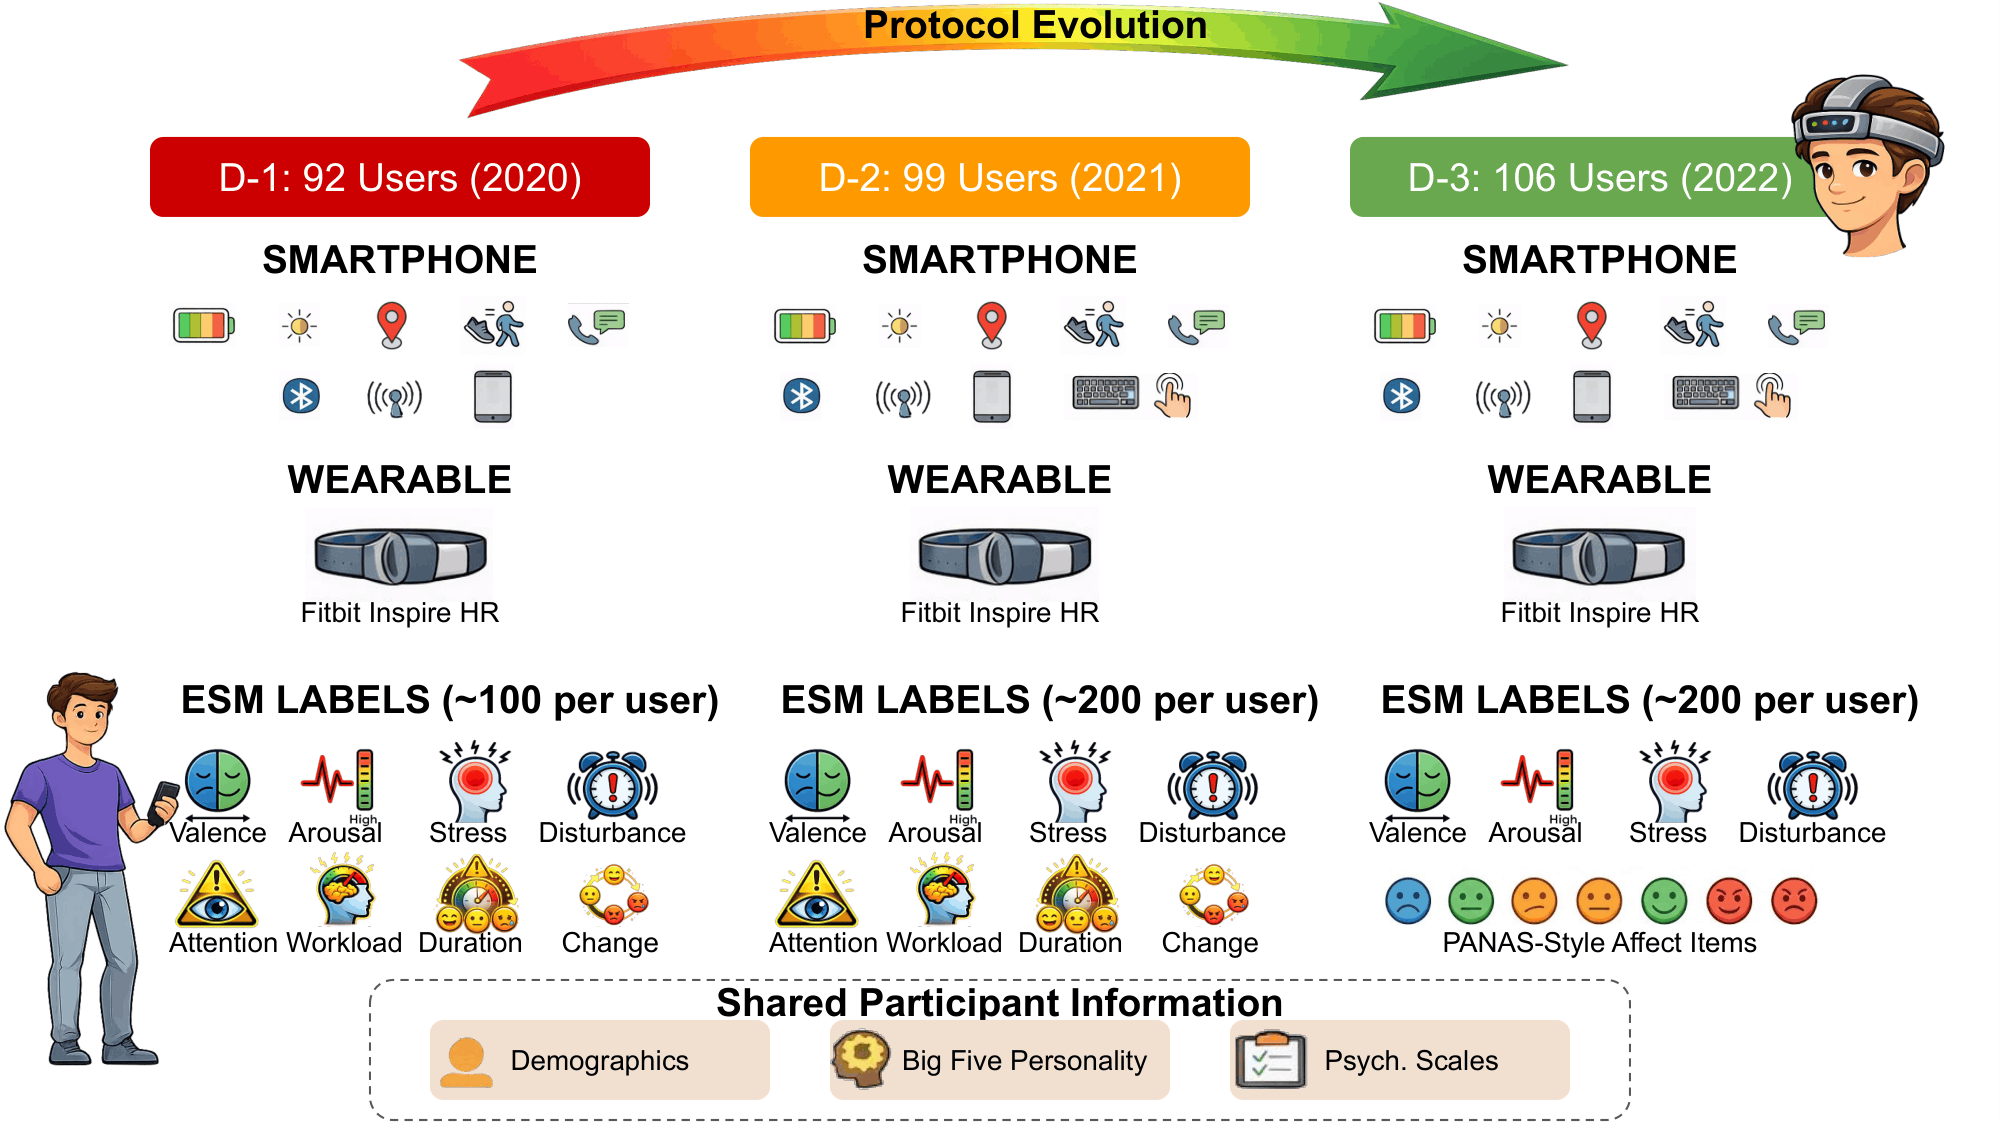
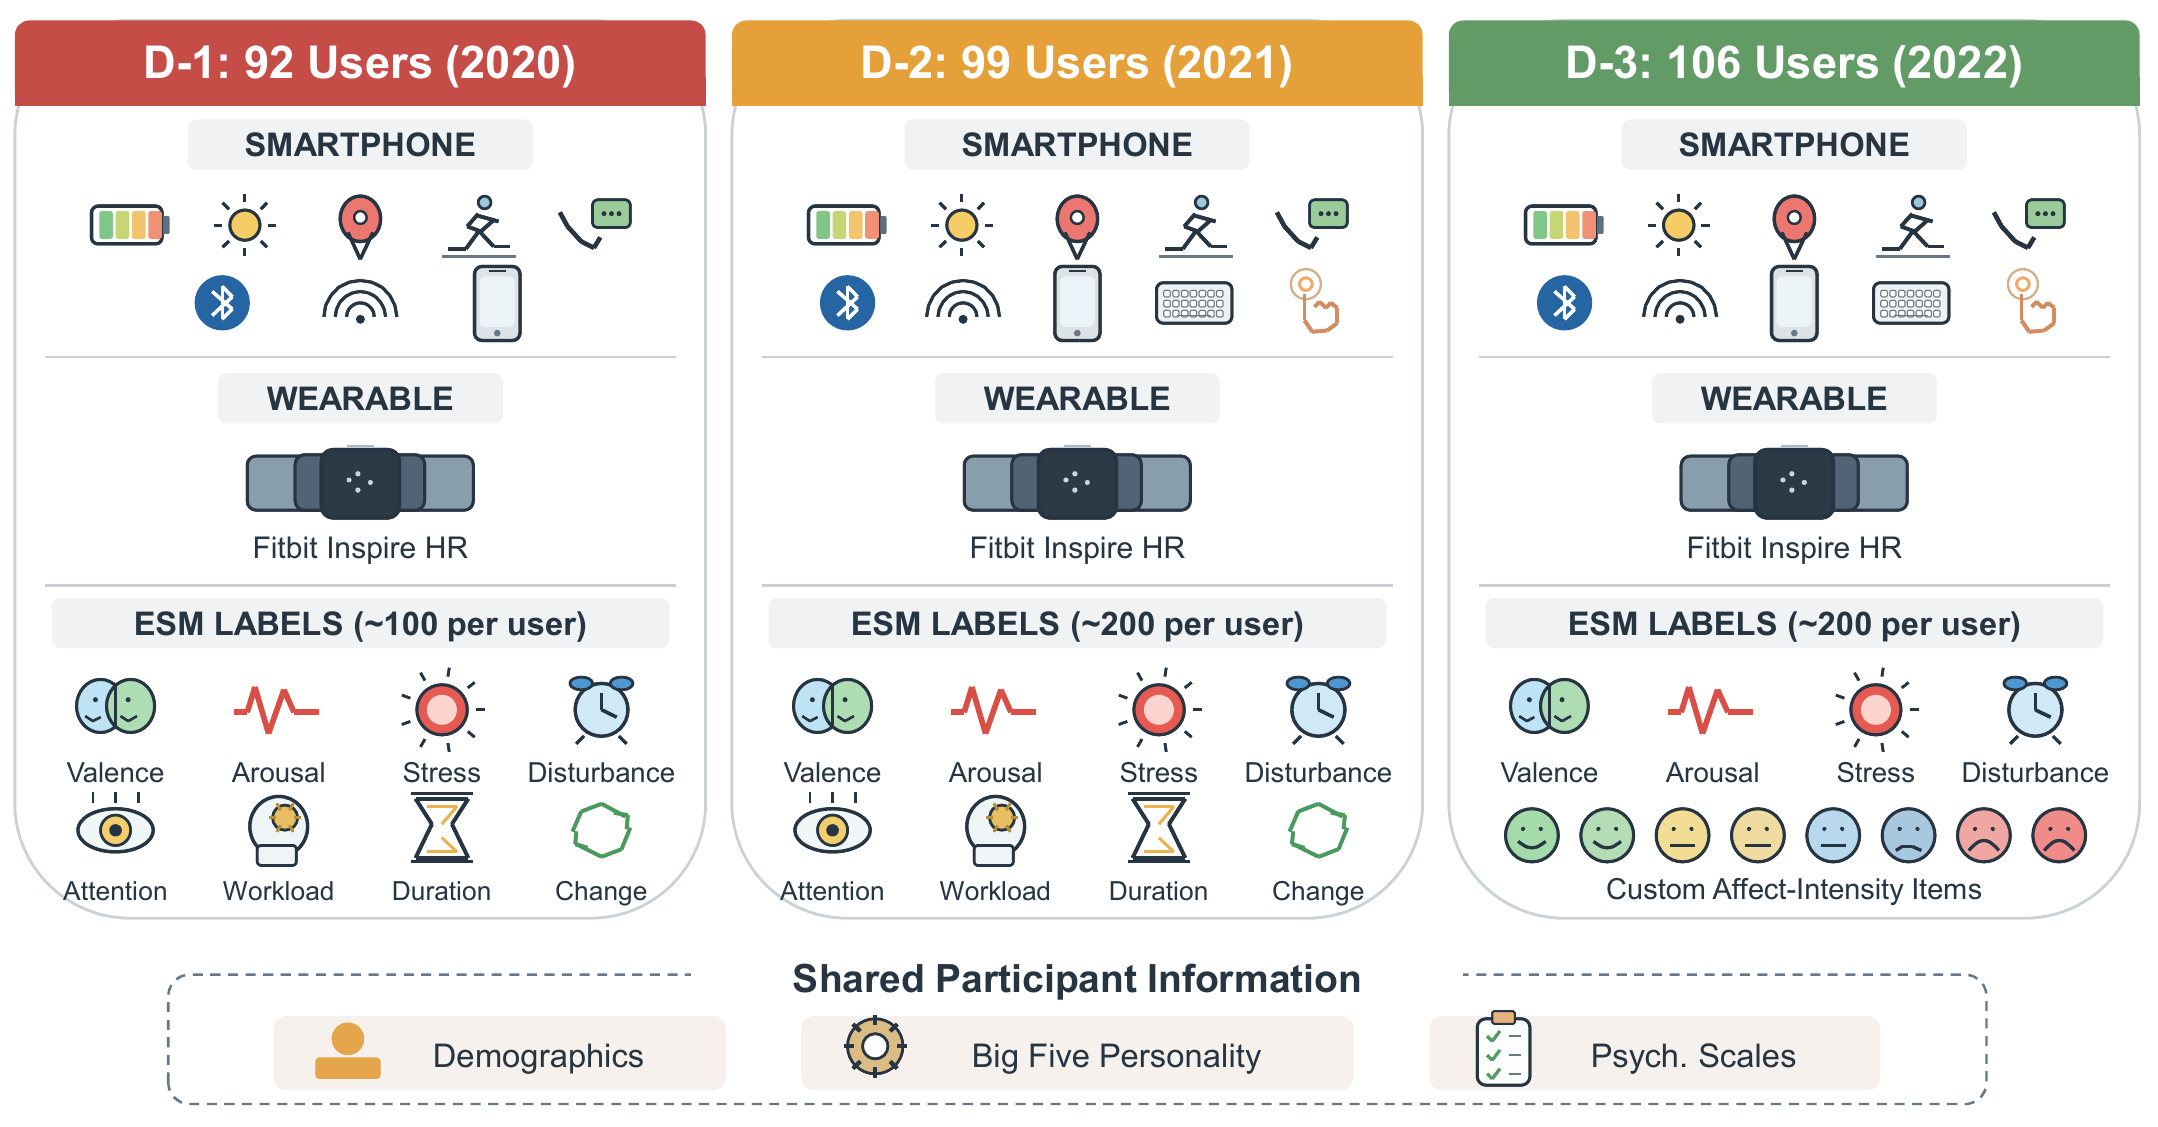
docs: update README for NeurIPS 2026 acceptance
- Link the project website (https://emophone.iclab.dev/) and arXiv preprint
- Replace TBD placeholders with the Harvard Dataverse DOI, access steps,
  citation, licenses, and contact
- Refresh the study design protocol figure

diff --git a/README.md b/README.md
@@ -2,22 +2,23 @@
 
 > A three-wave in-the-wild smartphone and wearable sensing dataset for moment-level affect modeling in everyday life.
 
-[![Code License](https://img.shields.io/badge/Code%20license-TBD-lightgrey)](./LICENSE)
-[![Data Terms](https://img.shields.io/badge/Data%20terms-TBD-lightgrey)](./LICENSE-DATA.md)
-[![DOI](https://img.shields.io/badge/DOI-TBD%20on%20acceptance-lightgrey)](#citation)
-[![Paper](https://img.shields.io/badge/Paper-NeurIPS%202026%20D%26B-green)](#citation)
+[![Website](https://img.shields.io/badge/Website-emophone.iclab.dev-0a7cff)](https://emophone.iclab.dev/)
+[![Paper](https://img.shields.io/badge/Paper-NeurIPS%202026%20Evaluations%20%26%20Datasets-green)](#citation)
+[![arXiv](https://img.shields.io/badge/arXiv-2609.16581-b31b1b)](https://arxiv.org/abs/2609.16581)
+[![DOI](https://img.shields.io/badge/DOI-10.7910%2FDVN%2FQGRVU8-blue)](https://doi.org/10.7910/DVN/QGRVU8)
+[![Harvard Dataverse](https://img.shields.io/badge/Data-Harvard%20Dataverse-red)](#data-access)
+[![Code License](https://img.shields.io/badge/Code%20license-Apache--2.0-lightgrey)](./LICENSE)
+[![Data Terms](https://img.shields.io/badge/Data%20terms-Credentialed%20access%20%2B%20DUA-lightgrey)](./LICENSE-DATA.md)
 [![Datasheet](https://img.shields.io/badge/Docs-Datasheet-orange)](./DATASHEET.md)
 [![Croissant](https://img.shields.io/badge/Metadata-Croissant-7f52b5)](./metadata/croissant_rai_EmoPhone_A_Multi-Wave_Dataset_for_In-the-Wild_Mob.json)
-[![Harvard Dataverse](https://img.shields.io/badge/Data-Harvard%20Dataverse-red)](#data-access)
 
-
-> **Dataset name, DOI, paper title, authors, and licenses are finalized on acceptance/public release.** This repository uses the working name `EmoPhone`; final names and legal terms will be substituted throughout before release.
+> **Accepted at NeurIPS 2026, Track on Evaluations and Datasets.** Project website: **[emophone.iclab.dev](https://emophone.iclab.dev/)**. Dataset record: **[Harvard Dataverse, doi:10.7910/DVN/QGRVU8](https://doi.org/10.7910/DVN/QGRVU8)**. Preprint: **[arXiv:2609.16581](https://arxiv.org/abs/2609.16581)**.
 
 ---
 
 ## Overview
 
-This repository contains the documentation, metadata, preprocessing notes, and benchmark scaffolding for the **D1, D2, and D3** dataset — three consecutive annual waves of an in-the-wild affective sensing study. Each wave pairs passive sensor data from participants' own Android smartphones and Fitbit wearables with dense in-situ affective state labels collected via the Experience Sampling Method (ESM).
+This repository contains the documentation, metadata, preprocessing notes, and benchmark scaffolding for **EmoPhone (D1, D2, and D3)**, three consecutive annual waves of an in-the-wild affective sensing study. The project website at [emophone.iclab.dev](https://emophone.iclab.dev/) hosts the paper, data-access instructions, and documentation. Each wave pairs passive sensor data from participants' own Android smartphones and Fitbit wearables with dense in-situ affective state labels collected via the Experience Sampling Method (ESM).
 
 Together, the three waves provide **53,139 ESM responses** from **297 participants** (328 recruited; 9.8% / 11.6% / 7.0% excluded by QC in D1 / D2 / D3), collected between **2020-02-07 and 2022-01-11** in South Korea.
 
@@ -30,7 +31,7 @@ Together, the three waves provide **53,139 ESM responses** from **297 participan
 <p align="center">
   <img src="images/study_design_protocol.png" alt="Three-wave sensing and ESM protocol overview" width="820">
 </p>
-<p align="center"><em>Figure 1. Three-wave study protocol, sensing streams, and ESM label evolution.</em></p>
+<p align="center"><em>Figure 1. Three-wave study protocol: smartphone and wearable sensing streams, ESM label sets per wave, and the participant information shared across waves.</em></p>
 
 ---
 
@@ -118,8 +119,8 @@ EmoPhone/
 │
 ├── README.md                         ← this file
 ├── DATASHEET.md                      ← Gebru-style datasheet (NeurIPS D&B requirement)
-├── LICENSE                           ← code license placeholder (TBD)
-├── LICENSE-DATA.md                   ← data license / DUA placeholder (TBD)
+├── LICENSE                           ← code license (Apache-2.0)
+├── LICENSE-DATA.md                   ← data access terms and DUA summary
 ├── CITATION.cff                      ← machine-readable citation
 ├── AUTHORS.md                        ← contributors
 ├── RESPONSIBILITY.md                 ← NeurIPS D&B author responsibility statement
@@ -190,21 +191,25 @@ EmoPhone/
 
 ## Data Access
 
-The planned release target is **Harvard Dataverse** with gated access. Users will log in, agree to the Data Use Agreement (DUA), and then download. The final landing page, file IDs, DOI, license, and DUA text will be populated on acceptance/public release.
+The dataset is published on **Harvard Dataverse** under credentialed access:
+
+- **Landing page / DOI:** [https://doi.org/10.7910/DVN/QGRVU8](https://doi.org/10.7910/DVN/QGRVU8)
+- **Access instructions:** [emophone.iclab.dev/access.html](https://emophone.iclab.dev/access.html)
+
+All data files are restricted. Metadata and documentation are visible to everyone, but downloading any file requires an approved access request and agreement to the Data Use Agreement (DUA).
 
 **To download:**
-1. Visit the dataset page at **[TBD Harvard Dataverse URL — populated on acceptance]**.
-2. Log in or create a free Harvard Dataverse account.
-3. Read and agree to the Data Use Agreement.
-4. Download individual wave archives (`D1.zip`, `D2.zip`, `D3.zip`) or the full dataset.
+1. Open the dataset page at [doi:10.7910/DVN/QGRVU8](https://doi.org/10.7910/DVN/QGRVU8) and log in or create a free Harvard Dataverse account.
+2. Click **Request Access**, read and accept the terms, and fill in the user agreement form linked from the dataset's terms of access.
+3. After approval, download the files you need. Each wave is a folder (`D1/`, `D2/`, `D3/`) containing `EsmResponse.csv`, `UserInfo.csv`, and a `Sensor/` folder with one archive per participant (`D1_Sensor_P033.tar.gz`, `D2_Sensor_P001.tar.gz`, and so on; 320 archives in total).
 
-**Download via the Dataverse API** (after agreeing to terms on the website):
+**Download via the Dataverse API** (after access has been granted; file IDs are shown on each file's page):
 
 ```bash
-# D1 as an example
-curl -L "https://dataverse.harvard.edu/api/access/datafile/TBD_FILE_ID_D1" \
+# D1 ESM responses as an example (file ID 13766498)
+curl -L "https://dataverse.harvard.edu/api/access/datafile/13766498" \
      -H "X-Dataverse-key: YOUR_API_TOKEN" \
-     -o D1.zip
+     -o D1/EsmResponse.csv
 ```
 
 **Python equivalent**:
@@ -213,14 +218,21 @@ curl -L "https://dataverse.harvard.edu/api/access/datafile/TBD_FILE_ID_D1" \
 import requests
 
 api_token = "YOUR_API_TOKEN"  # Dataverse account → API Token
-file_id   = "TBD_FILE_ID_D1"  # from the Dataverse dataset page
+file_id   = 13766498          # D1/EsmResponse.csv; see the dataset page for other file IDs
 
 r = requests.get(
     f"https://dataverse.harvard.edu/api/access/datafile/{file_id}",
     headers={"X-Dataverse-key": api_token},
 )
-with open("D1.zip", "wb") as f:
+r.raise_for_status()
+with open("D1/EsmResponse.csv", "wb") as f:
     f.write(r.content)
+```
+
+The full file list with IDs can be retrieved from the dataset metadata endpoint:
+
+```bash
+curl -s "https://dataverse.harvard.edu/api/datasets/:persistentId/?persistentId=doi:10.7910/DVN/QGRVU8"
 ```
 
 See [`data/README.md`](./data/README.md) for the full data-folder structure and loading examples.
@@ -245,14 +257,26 @@ md5sum -c metadata/checksums.md5
 
 ## Citation
 
+If you use the dataset or the benchmark code, please cite the NeurIPS paper and the Dataverse record.
+
 ```bibtex
-@inproceedings{emophone2026,
-  title     = {[Dataset Title — TBD on acceptance]},
-  author    = {[Author list — TBD on acceptance]},
-  booktitle = {Advances in Neural Information Processing Systems (NeurIPS), Datasets and Benchmarks Track},
+@inproceedings{zhang2026emophone,
+  title     = {EmoPhone: A Multi-Wave Dataset for In-the-Wild Mobile and Wearable Affect Sensing},
+  author    = {Zhang, Panyu and Park, Minseo and Kang, Soowon and Ismatzoda, Tomiris and Mustafakulov, Azizbek and Najimov, Otabek and Choi, Woohyeok and Alikhanov, Jumabek and Ghosh, Surjya and Lee, Uichin},
+  booktitle = {Advances in Neural Information Processing Systems (NeurIPS 2026), Track on Evaluations and Datasets},
   year      = {2026},
-  doi       = {TBD},
-  url       = {TBD}
+  eprint    = {2609.16581},
+  archivePrefix = {arXiv},
+  url       = {https://arxiv.org/abs/2609.16581}
+}
+
+@data{emophone_dataverse_2026,
+  title     = {EmoPhone: A Multi-Wave Dataset for In-the-Wild Mobile and Wearable Affect Sensing},
+  author    = {Zhang, Panyu and Park, Minseo and Kang, Soowon and Ismatzoda, Tomiris and Mustafakulov, Azizbek and Najimov, Otabek and Choi, Woohyeok and Alikhanov, Jumabek and Ghosh, Surjya and Lee, Uichin},
+  publisher = {Harvard Dataverse},
+  year      = {2026},
+  doi       = {10.7910/DVN/QGRVU8},
+  url       = {https://doi.org/10.7910/DVN/QGRVU8}
 }
 
 @article{zhang2024reproducible,
@@ -272,10 +296,11 @@ See [`CITATION.cff`](./CITATION.cff) for the machine-readable form.
 
 ## License and Ethics
 
-- **Code license:** TBD; see [`LICENSE`](./LICENSE).
-- **Data license and DUA:** TBD; see [`LICENSE-DATA.md`](./LICENSE-DATA.md).
+- **Code license:** Apache-2.0; see [`LICENSE`](./LICENSE).
+- **Documentation and metadata:** CC BY 4.0 (the license attached to the Dataverse record).
+- **Data files:** credentialed access governed by the dataset-specific Data Use Agreement, which prohibits re-identification attempts, surveillance or profiling uses, and redistribution of participant-level data; see [`LICENSE-DATA.md`](./LICENSE-DATA.md) and the [access page](https://emophone.iclab.dev/access.html).
 
-All data collection was approved by the Institutional Review Board at **[TBD institution]** (approval number **[TBD]**). Participants provided written informed consent and received ~100 USD compensation. Anonymisation applied prior to release: MD5-hashed contact numbers, UUID-replaced Wi-Fi/Bluetooth MAC addresses, per-participant random displacement of GPS longitude. See [`docs/ethics.md`](./docs/ethics.md) and [`DATASHEET.md`](./DATASHEET.md) § 2.
+All three collection waves were conducted under protocols approved by the Institutional Review Board of KAIST. Participants provided written informed consent, including a clause on voluntary public dataset release, and received ~100 USD compensation. Anonymisation applied prior to release: MD5-hashed contact numbers, UUID-replaced Wi-Fi/Bluetooth MAC addresses, per-participant random displacement of GPS longitude. See [`docs/ethics.md`](./docs/ethics.md) and [`DATASHEET.md`](./DATASHEET.md) § 2.
 
 The authors accept full responsibility for any rights violations arising from this release; see [`RESPONSIBILITY.md`](./RESPONSIBILITY.md).
 
@@ -285,4 +310,6 @@ Maintenance plan and versioning policy: [`MAINTENANCE.md`](./MAINTENANCE.md). Ch
 
 ## Contact
 
-For questions about the dataset or code, contact **[TBD contact email — populated on acceptance]** or open a GitHub issue. Contribution guidance: [`CONTRIBUTING.md`](./CONTRIBUTING.md).
+- **Project website:** [https://emophone.iclab.dev/](https://emophone.iclab.dev/)
+- **Corresponding author:** Uichin Lee, KAIST (uclee@kaist.ac.kr)
+- **Dataset and code questions:** open a [GitHub issue](https://github.com/Kaist-ICLab/EmoPhone/issues) or use the contact page at [emophone.iclab.dev/contact.html](https://emophone.iclab.dev/contact.html). Contribution guidance: [`CONTRIBUTING.md`](./CONTRIBUTING.md).
